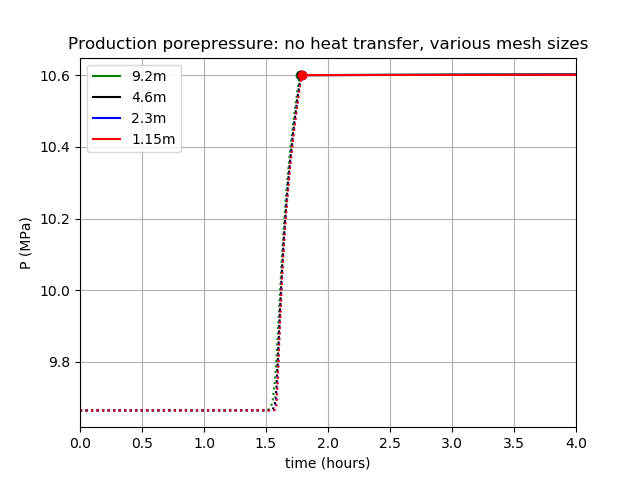
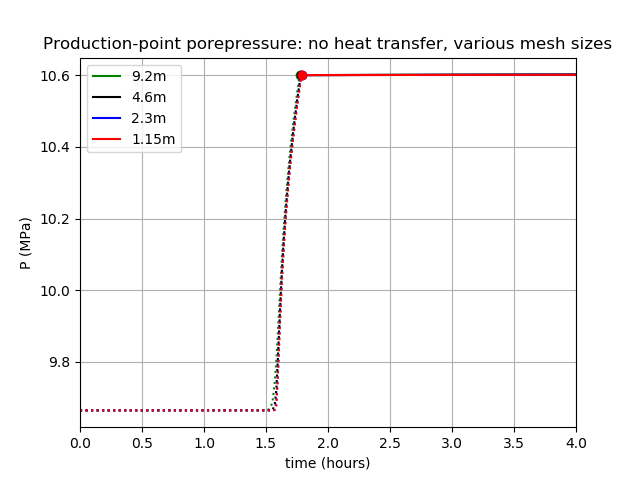
nicer titles on figures for fracture_only

Changed region(s): [[0.0625, 0.0625, 0.9688, 0.125]]

diff --git a/3dFracture/fracture_only_aperture_changing.py b/3dFracture/fracture_only_aperture_changing.py
@@ -22,7 +22,7 @@ for i in ['0', '1', '2', '3']:
     plt.plot(data['time'][production_starts[i]:] / 3600.0, data['TK_out'][production_starts[i]:] - 273, colours[i], label=labels[i])
 plt.grid()
 plt.legend()
-plt.title("Production temperature: no heat transfer, various mesh sizes")
+plt.title("Production-point temperature: no heat transfer, various mesh sizes")
 plt.xlim([0, 4])
 plt.xlabel("time (hours)")
 plt.ylabel("T (degC)")
@@ -38,7 +38,7 @@ for i in ['0', '1', '2', '3']:
     plt.plot(data['time'][production_starts[i]:] / 3600.0, data['P_out'][production_starts[i]:], colours[i], label=labels[i])
 plt.grid()
 plt.legend()
-plt.title("Production porepressure: no heat transfer, various mesh sizes")
+plt.title("Production-point porepressure: no heat transfer, various mesh sizes")
 plt.xlim([0, 4])
 plt.xlabel("time (hours)")
 plt.ylabel("P (MPa)")

diff --git a/doc/content/multiapp_fracture_flow_PorousFlow_3D.md b/doc/content/multiapp_fracture_flow_PorousFlow_3D.md
@@ -149,18 +149,18 @@ The pressure at the injection point rises from its insitu value of around 9.4$\,
 
 Some results are shown in [fracture_only_aperture_changing_T_out] and [fracture_only_aperture_changing_P_out].  Thermal breakthrough occurs at around 1.5 hours after injection starts.  These simulations were run using different mesh sizes (by choosing `Mesh/uniform_refine` appropriately) to illustrate the impact of different meshes in this problem.  Some observations are:
 
-- There is an interesting increase of temperature around the production well in the finer-resolution cases.  The reason for this is that a thin layer of insitu hot fluid is "squashed" against the fracture ends as the cold fluid invades the fracture (the thin layer is not resolved in the low-resolution cases).  This is also clearly seen in [orbit_T].  The hot fluid cannot escape, and it becomes pressurized, leading to an increase in temperature.  Eventually the porepressure increases to 10.6$\,$MPa and the production well activates, withdrawing the hot fluid, and the near-well area cools.  In regions where there is no production well, the high temperature eventually diffuses.  If the production well were in the middle of a fracture, this interesting phenomenon wouldn't be seen.
+- There is an interesting increase of temperature around the production well in the finer-resolution cases.  The reason for this is that a thin layer of insitu hot fluid is "squashed" against the fracture ends as the cold fluid invades the fracture (the thin layer is not resolved in the low-resolution cases).  This is also clearly seen in [orbit_T].  The hot fluid cannot escape, and it becomes pressurized, leading to an increase in temperature.  Eventually the porepressure increases to 10.6$\,$MPa and the production well activates (indicated by the dot in the figures), withdrawing the hot fluid, and the near-well area cools.  In regions where there is no production well, the high temperature eventually diffuses.  If the production well were in the middle of a fracture, this interesting phenomenon wouldn't be seen.
 - As mesh resolution is increased, the results appear to be converging to an "infinite-resolution" case.  Given the likely uncertainties in parameter values and the physics of aperture dilation, a mesh with element side-lengths of 10$\,$m is likely to be perfectly adequate for this type of problem.
 
 !media media/fracture_only_aperture_changing_P_out.png
 	style=width:70%;margin:auto;padding-top:2.5%;
 	id=fracture_only_aperture_changing_P_out
-	caption=Porepressure around the production point in the case where there is no matrix.  The legend's numbers indicate the size of elements used in the simulation
+	caption=Porepressure at the production point in the case where there is no matrix.  The legend's numbers indicate the size of elements used in the simulation.  Dotted lines: before production commences.  Dot: production commences.  Solid lines: during production.
 
 !media media/fracture_only_aperture_changing_T_out.png
 	style=width:70%;margin:auto;padding-top:2.5%;
 	id=fracture_only_aperture_changing_T_out
-	caption=Production temperature in the case where there is no matrix.  The legend's numbers indicate the size of elements used in the simulation
+	caption=Temperature at the production point in the case where there is no matrix.  The legend's numbers indicate the size of elements used in the simulation.  Dotted lines: before production commences.  Dot: production commences.  Solid lines: during production.
 
 Some animations are shown in [orbit_T] and [orbit_aperture].  One month is simulated, but steady state is rapidly approached within the first few hours of simulation.   The cold injectate invades most of the fracture network: hot pockets of fluid only remain at the tops of some fractures, due to buoyancy.
 
